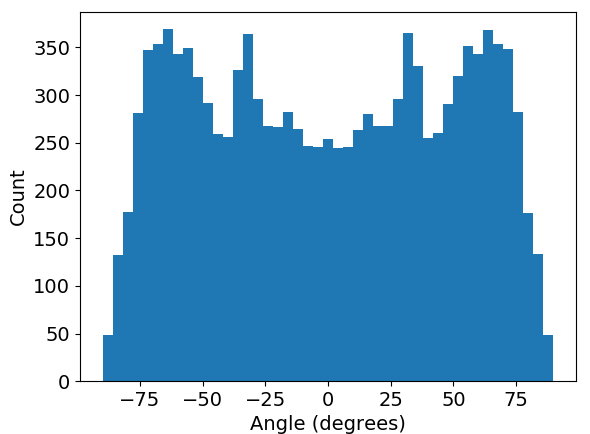
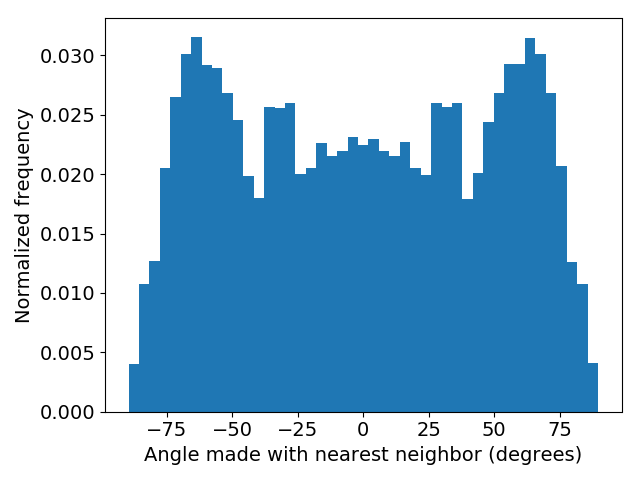
organizing

Changed region(s): [[0.0, 0.03, 0.9763, 1.0], [0.8847, 0.4793, 0.9153, 0.5991], [0.8542, 0.2396, 0.8847, 0.3594]]

diff --git a/Ben_Manuscripts/Paper1/Outline.tex b/Ben_Manuscripts/Paper1/Outline.tex
@@ -828,16 +828,17 @@ suggested
 	%BJC: 1D is from a Yale paper. I'm going to remake the figure from the raw data but will reference that
 	%BJC: The simulated 1D shows the right peaks, but the resolution makes it kind of pointy. I'll let you take a look at it but maybe it belongs in the supplemental
   \end{figure}
-  
-  We were inspired to ask question (4) when we observed that the initial distance
-  between layers can influence the approach towards equilibrium. 
+
+  In addition to the parallel displaced and sandwiched configurations we observed
+  that the initial distance between layers can influence the approach towards 
+  equilibrium.
   \begin{itemize}
   	\item Our choice of distance between layers results in long-term stability of 
-	different configurations indicating that we have found more than one metastable
-	free energy basin.
-  	\item Equilibrated systems built according to the 3.7 \angstrom~ 
-	layer spacing implied by R-$\pi$ are characterized by a defined, cylindrical and
-	open pore structure.
+	qualitatively different configurations suggesting that we have found more than
+        one metastable free energy basin.
+  	\item Equilibrated systems built according to the 3.7 \angstrom~layer spacing 
+        implied by R-$\pi$ are characterized by a defined, cylindrical and open pore 
+	structure.
         \item We will refer to this large set of configurations, with an open pore, as 
         Basin OP (open pore) (Figure~\ref{fig:abasin}).
 	\item Simulations of systems built with layers stacked greater than 4 
@@ -937,9 +938,14 @@ suggested
   %MRS: one thought: maybe organize it a different way -- it's not the disordered (and go through the anlysis there), and then separately show that it's more likely the sandwich.  Something to think about.
   %MRS: anyway, this is the key part of the paper, so clarity and organization important.
   %MRS: make sure the figures are comparable.  Could someone look at the figures, and see immediately what you are explaining -- for example, experiment and fully equilibrated disordered, sandwich and parallel displaced all in a row?
-  Full comparison of experimental 2D WAXS with simulated X-ray diffraction
-  patterns produced from equilibrated MD trajectories shows the most consistency
-  with the offset configuration in the OP basin.
+  
+  %Full comparison of experimental 2D WAXS with simulated X-ray diffraction
+  %patterns produced from equilibrated MD trajectories shows the most consistency
+  %with the offset configuration in the OP basin.
+  
+  We created systems using three 
+  distinct initial configurations and examined their structure by simulating 
+  X-ray diffraction patterns produced from equilibrated MD trajectories.
   \begin{itemize}
   	\item Systems were built in both the parallel displaced and sandwiched 
 	configurations with an intial layer spacing of 3.7 \angstrom~.
@@ -947,8 +953,6 @@ suggested
 	configuration 5 \angstrom~apart in order to guide it towards the CP Basin.
 	% BJC: I've done an additional offset disordered system which goes to Basin CP but I think that will confuse the point
 	\item For ease of reference, the third system will be referred to as Basin D (disordered). 
-%BJC: omit and call it basin B
-%MRS or just be consistent from the beginning.  Or call Basins O and D          
 	\item The three systems were equilibrated according to our procedure with
 	NPT simulations of greater than 400 ns.
 	\item Simulated diffration patterns were generated using portions of the
@@ -957,13 +961,29 @@ suggested
 	pores and the membrane thickness stopped changing.
 	\item Simulated diffraction patterns for all three structures are shown in 
 	Figure ~\ref{fig:XRDsim}. 
-	%BJC: maybe break into a separate paragraph starting here
+  \end{itemize}
+
+  % Three paragraphs instead here? Talk about disordered, parallel displaced and 
+  % layered separately? Try it. 
+  % Talk about disordered last so it leads in to 
+  % Also maybe don't talk about question 4 until after this
+  Full comparison of experimental 2D WAXS with simulated X-ray diffraction
+  patterns shows the most consistency with the offset configuration in the OP basin.
+  \begin{itemize}
+        \item The disordered pore structure exhibits R-alkanes and R-pores but R-helix,
+	R-$\pi$ and R-spots are not present. 
+        \item Simulated XRD of the sandwiched configuration contains all features 
+        except for R-helix.
+        \item Most notably, R-spots appears in the expected location, which suggests 
+        that there is something intrinsic to the sandwiched packing that gives rise 
+        to such features. 
+
 	\item The equilibrated parallel displaced structure exhibits R-alkanes and
 	R-pores in the expected locations. 
 	\item Due to low resolution, making out the individual spots of R-pores is
-	challenging and can be validated upon full spherical integration of the 3D 
-	structure factor. However, the same information can be extracted by measuring 
-	the pore spacing as described earlier.
+	challenging and can be validated with slightly better resolution upon full
+	spherical integration of the 3D structure factor. However, the same 
+	information can be extracted by measuring the pore spacing as described earlier.
 	\item R-$\pi$ is also present, intersecting R-alkanes at a lower q value than
 	in experiment. The rings prefer to stack $\approx 4.1 \angstrom$ apart as 
 	opposed to 3.7 \angstrom~.
@@ -977,8 +997,6 @@ suggested
 	\item Most notably, R-spots appears in the expected location, which suggests 
 	that there is something intrinsic to the sandwiched packing that gives rise 
 	to such features. 
-	\item Finally, the disordered structure exhibits R-alkanes and R-pores but 
-	R-helix, R-$\pi$ and R-spots are not present.
   \end{itemize}
   
 % BJC: Replacement figure below this one
@@ -1056,55 +1074,66 @@ suggested
 	as the product of tilted alkane chains.
 	\item We measured the tilt angle of the alkane chains and showed that our 
 	system equilibrates to an average tilt angle close to zero degrees (See Supplemental Information). 
-	\item To understand the origin of the spots, we determined which atoms gave rise to the feature.
+	\item To understand the origin of the spots, we determined which atoms gave rise to the feature.i
+	\item Since R-spots is present as higher intensity spots within R-alkanes, it is likely
+        that the spots arise as a consequence of the tails. 
 	\item By removing atoms from the trajectory and simulating a diffraction 
 	pattern, we were able to isolate the cause of the spots to the tails (Figure~\ref{fig:tails_rzplot}).
 	\item Since the tails stay nearly flat, we plotted the centroids of the 
 	tails and measured the angle between each centroid and its nearest neighbors
 	with respect to the plane of the membrane (Figure~\ref{fig:centroids}).
 	\item The distribution of these angles is consistent with the location of 
-	the spots (Figure~\ref{fig:angle_distribution}).
-	\item We reason that monomer tails stacked closely in the sandwiched conformation
-	are forced to splay apart and pack in between in each other which creates a
-	nearly hexagonal array of packed tails. 
+	the spots (Figure~\ref{fig:tail_packing}).
+	\item The peaks of interest in Figures~\ref{fig:offset_tails}~and~\ref{fig:layered_tails}
+	are located at $\pm$ 33 $\degree$ which is the same location where the highest intensity
+	of spots are located on the simulated patterns (See Supplemental Information for quantitative proof)
+	\item We integrated the raw experimental 2D WAXS data in the region bounding R-alkanes 
+        and found the angle at which R-spots reaches its highest intensity to be $\pm$ 37 $\degree$ which 
+        is a reconcilable difference with our simulated results.  
   \end{itemize}
-  
-  \begin{figure}[!ht]
-	\centering
-	\begin{subfigure}{0.45\textwidth}
-		\centering
-		\hspace{-1cm}
-		\vspace{1cm}
-		\includegraphics[width=\textwidth,scale=2]{tails_topview.png}
-		\caption{}\label{fig:tails_topview}
-	\end{subfigure}
-	\begin{subfigure}{0.45\textwidth}
-		\centering
-		\includegraphics[width=\textwidth]{tails_rzplot.png}
-		\caption{}\label{fig:tails_rzplot}
-	\end{subfigure}
-	\begin{subfigure}{0.45\textwidth}
-		\centering
-		\includegraphics[width=\textwidth]{centroids_box.png}
-		\caption{}\label{fig:centroids}
-	\end{subfigure}
-	\begin{subfigure}{0.45\textwidth}
-		\centering
-		\includegraphics[width=\textwidth]{angles_traj_layered.png}
-		\caption{}\label{fig:angle_distribution}
-	\end{subfigure}
-	\caption{(a) The trajectory can be stripped of all atoms except carbon
-	atoms in monomer tails. (b) Simulated diffraction of the tail-only trajectory
-	still gives rise to R-spots. (c) Finding the center of mass and visualizing 
-	their coordinates reveals the hexagonal-like packing of the tails. (d) The 
-	distribution created by measuring the angle between each centroid (e.g. red 
-	in (c)) and its neareset neighbors (e.g. green in (c)) with respect to the xy
-	plane has distinct spikes near 30\degree, which is consistent with the location
-	of R-spots}\label{fig:tail_packing}
+ 
+  \begin{figure}[ht]
+  \centering
+  \begin{subfigure}{0.3\linewidth}
+        \centering
+        \includegraphics[width=\linewidth]{offset_tail_packing.png}
+        \caption{}~\label{fig:offset_tails}
+  \end{subfigure}
+  \begin{subfigure}{0.3\linewidth}
+        \centering
+        \includegraphics[width=\linewidth]{angles_traj_layered.png}
+        \caption{}~\label{fig:layered_tails}
+  \end{subfigure}
+  \begin{subfigure}{0.3\linewidth}
+        \centering
+        \includegraphics[width=\linewidth]{integrated_WAXS_ring.png}
+        \caption{}~\label{fig:rz_layered}
+  \end{subfigure}
+  \caption{The distribution of angles w.r.t. xy plane between alkane chain tail centroids and nearest
+  neighbor centroids for equilibrated parallel displaced (a) and sandwiched (b) configurations both show
+  distinct peaks at $\pm$ 33 $\degree$. (c) Integrated 2D WAXS data between $q_r$=1 and $q_r$=1.42 shows
+  distinct peaks at with maxima at $\pm$ 37 $\degree$}~\label{fig:tail_packing}
   \end{figure}
+ 
   %MRS: one could ask the question about basins for the parallel displaced and sandwich as well.  
   %MRS: we had talked a lot about interconversion (or conversion one way but not other?) but 
   %MRS: I think things have changed since then? 
+  The disordered basin shares little in common with the ordered basin but 
+  its long term stability suggests that it can exist under some conditions.  
+  Basin B is the dominant configuration at higher temperatures.
+  \begin{itemize}
+        \item We linearly ramped the temperature of a system in Basin A
+        from 280K to 340K over 100 ns.
+        \item Visually, there is a distinct change in pore structure from one
+        characteristic of Basin A (Figure~\ref{fig:280K_pore}) to one characteristic of
+        Basin B (Figure~\ref{fig:340K_pore}).
+        \item The slope of all order parameters changes between 315K and 325K
+        (\Cref{fig:p2p_tramp,fig:thickness_tramp,fig:order_tramp}) indicating the
+        possibility of an abrupt change in system ordering.
+        \item Our 100 ns temperature ramp was likely too fast and caused the system
+        to suffer from hysteresis.
+  \end{itemize}
+
   We can not immediately classify Basin A and Basin B as separate phases.
   \begin{itemize}
 	\item To prove the existence of two phases we need evidence of a
@@ -1117,20 +1146,6 @@ suggested
 	the uncertainty in pore radius.  % BJC: these may change
         \item The pore radius is divided by its uncertainty as a way of quantifying
         the degree to which monomers obstruct the pore region.
-  \end{itemize}
-
-  Basin B is the dominant configuration at higher temperatures.
-  \begin{itemize}
-	\item We linearly ramped the temperature of a system in Basin A 
-	from 280K to 340K over 100 ns.
-        \item Visually, there is a distinct change in pore structure from one
-        characteristic of Basin A (Figure~\ref{fig:280K_pore}) to one characteristic of
-        Basin B (Figure~\ref{fig:340K_pore}).
-        \item The slope of all order parameters changes between 315K and 325K
-	(\Cref{fig:p2p_tramp,fig:thickness_tramp,fig:order_tramp}) indicating the
-        possibility of an abrupt change in system ordering.
-        \item Our 100 ns temperature ramp was likely too fast and caused the system
-        to suffer from hysteresis.
   \end{itemize}
 
   In an attempt to mitigate hysteresis, we performed a slow, stepwise temperature ramp.

diff --git a/HII/Scripts/WAXS.py b/HII/Scripts/WAXS.py
@@ -1,7 +1,6 @@
 #!/usr/bin/env python
 
 import matplotlib
-matplotlib.rc('axes', color_cycle=['r', 'g', 'b', '#004060'])
 import numpy as np
 import matplotlib.pyplot as plt
 import math
@@ -13,18 +12,21 @@ center = np.array([530, 473])
 hw = 400  # height and width (pixels)
 r_high = hw - 155
 r_low = hw - 215
-bins = 180
+bins = 720
+db = 180 / float(bins)
 
 waxs = waxs[center[0]-hw:center[0]+hw, center[1]-hw:center[1]+hw]
 
 qpi = 1.7  # q value of pi-stacking reflection
 axial = np.copy(waxs[:, int(waxs.shape[0]/2)])  # hold x constant at the center, and get all y values. The array is of the shape [y, x]
 mid = axial.shape[0] / 2
-axial[(mid - 150):(mid + 150)] = 0  # zero out middle values so we get the right maximum
+axial[int(mid - 150):int(mid + 150)] = 0  # zero out middle values so we get the right maximum
 Imax = np.amax(axial)  # max value of Intensity. It will correspond to location of pi-stacking reflection
 Imax_pixel = np.where(axial == Imax)[0][0]
 pixel_to_q = 1.7 / abs(mid - Imax_pixel)
 qmax = mid*pixel_to_q
+r_high_pix = 155 * pixel_to_q
+r_low_pix = 215 * pixel_to_q
 
 # The raw data contains super high intensity specs and some intensity near the center that is meant to be blocked out
 # I zero out all of those so that the highest intensity is in the pi-stacking reflection.
@@ -40,6 +42,9 @@ waxs /= np.amax(waxs)  # normalize with respect to highest intensity in pi-stack
 # plt.xlabel('$q_r$', fontsize=14)
 # plt.ylabel('$q_z$', fontsize=14)
 # plt.gcf().get_axes()[0].tick_params(labelsize=14)
+# plt.tight_layout()
+# plt.show()
+
 # fig.savefig('raw_WAXS.png')
 # fig.clf()
 # #plt.show()
@@ -55,10 +60,12 @@ plt.gcf().get_axes()[0].set_xlabel('$q_r$', fontsize=14)
 plt.gcf().get_axes()[0].set_ylabel('$q_z$', fontsize=14)
 plt.gcf().get_axes()[0].set_aspect('equal')
 plt.gcf().get_axes()[0].tick_params(labelsize=14)
-fig.savefig('raw_WAXS.png')
-fig.clf()
+plt.tight_layout()
 # plt.show()
-exit()
+# fig.savefig('raw_WAXS.png')
+# fig.clf()
+# plt.show()
+# exit()
 angles = np.zeros([bins])
 norm = np.zeros([bins])
 ring = np.zeros_like(waxs)
@@ -92,13 +99,27 @@ for i in range(waxs.shape[0]):
 
 
 avg = angles / norm  # normalize intensities so it is on a per count basis
+avg /= sum(avg)
 angles = np.linspace(-90, 90, bins + 1)  # We will only see angles in the range of -90 to 90 since we use np.arctan
 bin_angles = [(angles[i] + angles[i + 1])/2 for i in range(bins)]  # bars will be placed in the middle of the bins
 width = angles[1] - angles[0]  # width of bins
 
+max1 = np.max(avg[int((90 - 50)/db):int((90 - 25)/db)])
+max2 = np.max(avg[int((90 + 25)/db):int((90 + 50)/db)])
+print(90 - np.where(avg == max1)[0][0]*db)
+print(-90 + np.where(avg == max2)[0][0]*db)
+print(max1, max2)
+
+exit()
 print(np.max(avg) / np.mean(avg))
 
+plt.figure()
 plt.bar(bin_angles, avg, width=width)
+plt.xlabel('Angle (degrees)', fontsize=14)
+plt.ylabel('Normalized Intensity', fontsize=14)
+plt.gcf().get_axes()[0].tick_params(labelsize=14)
+plt.tight_layout()
+plt.savefig('integrated_WAXS_ring.png')
 plt.show()
 
 # plt.imshow(ring, vmax=0.05)

diff --git a/HII/Scripts/tail_packing.py b/HII/Scripts/tail_packing.py
@@ -178,20 +178,34 @@ if __name__ == "__main__":
         print("Loading saved arrays")
         arrays = np.load('angles_ld_%s.npz' % args.suffix, encoding='bytes')
         angles = arrays['angles']
+        centroids = arrays['centroids']
+        atoms_per_frame = int(angles.shape[0] / centroids.shape[0])
+        angles = angles[args.start * atoms_per_frame : args.end * atoms_per_frame]
         ld = arrays['ld']
         nlist = arrays['nlist']
-        centroids = arrays['centroids']
 
     if args.write_gro:
         file_rw.write_gro_pos(centroids[-1, :, :], 'centroids.gro', name='NA')
 
     angles = [value for value in angles if not math.isnan(value)]
 
-    nbins = 45
+    nbins = 180
     (counts, bins) = np.histogram(angles, bins=nbins)
-    plt.hist(angles, bins=nbins)
-    plt.show()
+    # plt.hist(angles, bins=nbins)
+    # plt.show()
+
     bin_width = bins[1] - bins[0]
+    db = bin_width
+    bin_centers = [bins[i - 1] + ((bins[i] - bins[i - 1]) / 2) for i in range(1, len(bins))]
+    integrated_area = np.trapz(counts, bin_centers)  # integrated area of histogram for normalization
+    avg = counts * bin_width / integrated_area
+
+    max1 = np.max(avg[int((-bins[0] - 40)/db):int((-bins[0] - 20)/db)])
+    max2 = np.max(avg[int((-bins[0] + 25)/db):int((-bins[0] + 50)/db)])
+    print(np.where(avg == max2))
+    print(90 - np.where(avg == max1)[0][0]*db)
+    print(-90 + np.where(avg == max2)[0][1]*db)
+    print(max1, max2)
 
     plt.figure()
     bin_centers = [bins[i - 1] + ((bins[i] - bins[i - 1]) / 2) for i in range(1, len(bins))]
@@ -201,8 +215,8 @@ if __name__ == "__main__":
     plt.ylabel('Normalized frequency', fontsize=14)
     plt.axes().tick_params(labelsize=14)
     plt.tight_layout()
-
-
+    plt.show()
+    exit()
     if args.fit:
         bin_locations = np.linspace(-90, 90, nbins)
         fapprox = np.array([f(t, 8, 180, bin_locations).real for t in counts]) + np.mean(bins)

diff --git a/Ben_Manuscripts/Paper1/figures/xrd.tex b/Ben_Manuscripts/Paper1/figures/xrd.tex
@@ -11,7 +11,7 @@
 	\centering
 	\begin{subfigure}{0.4\linewidth}
 		\centering
-		\includegraphics[width=\linewidth, trim={2.5cm 0 4cm 2cm}, clip]{WAXS_raw.png}%
+		\includegraphics[width=\linewidth, trim={2.5cm 0 4cm 1.25cm}, clip]{WAXS_raw.png}%
 		\caption{}~\label{fig:raw_waxs}	
 	\end{subfigure}%
 	\begin{subfigure}{0.4\linewidth}
